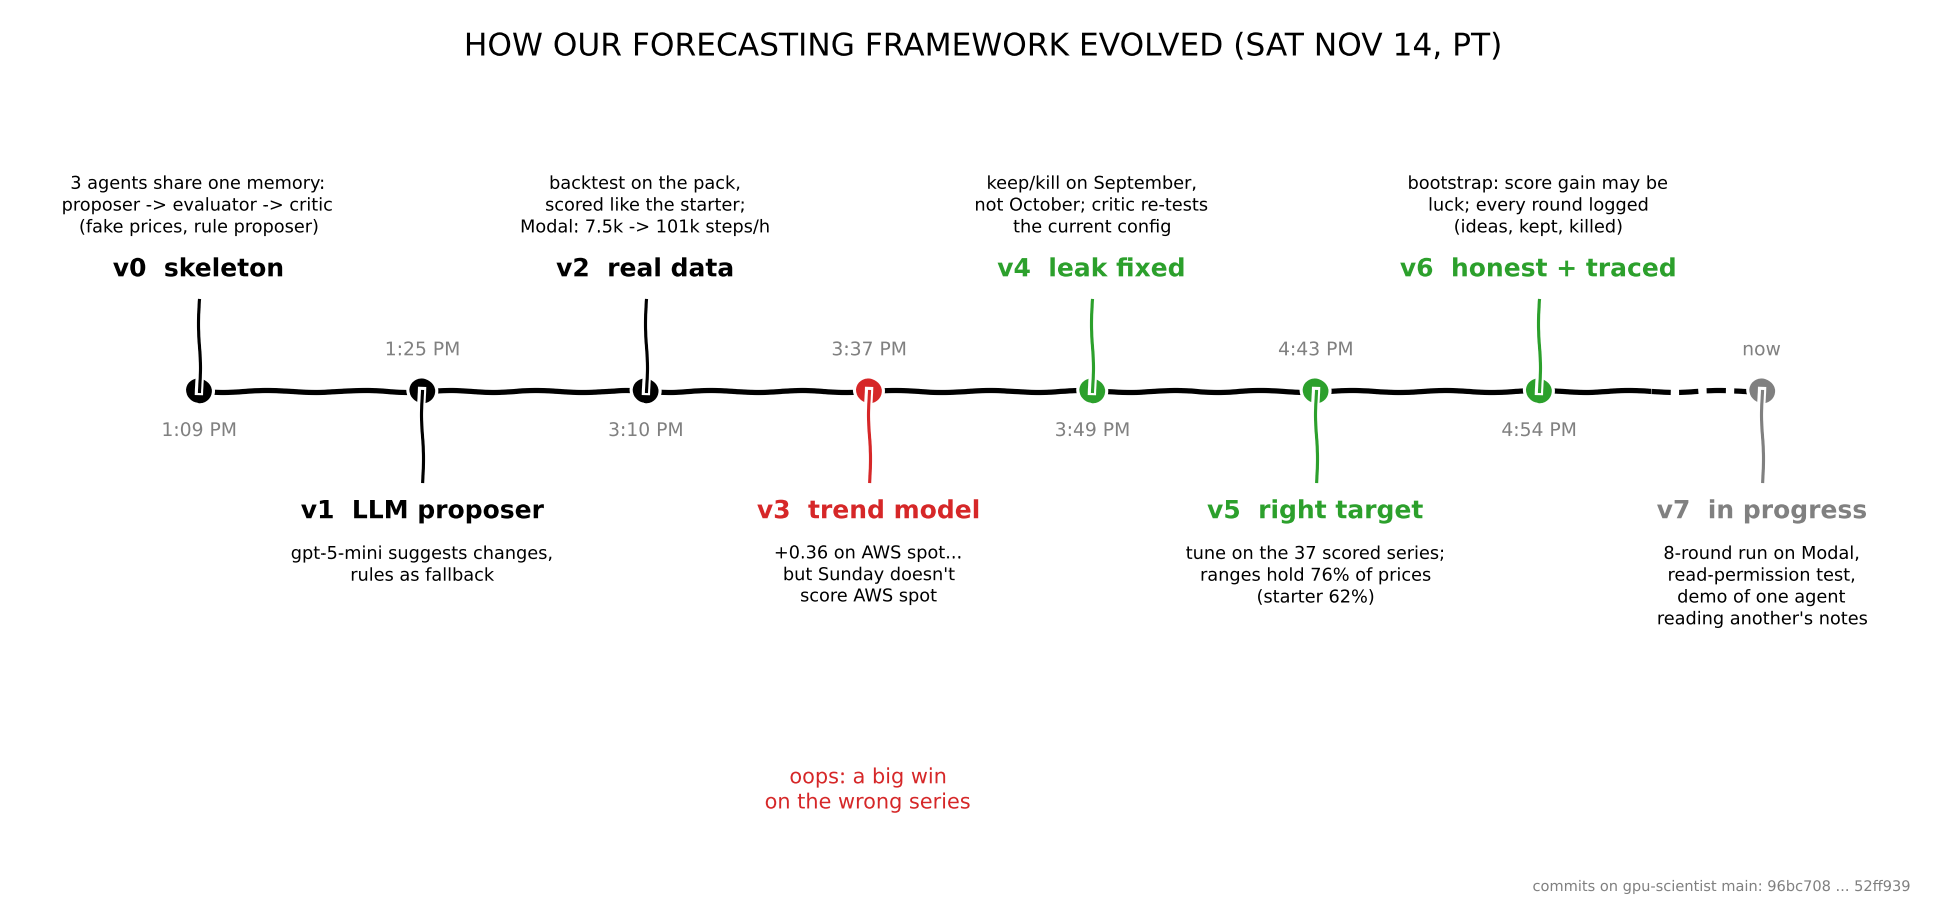
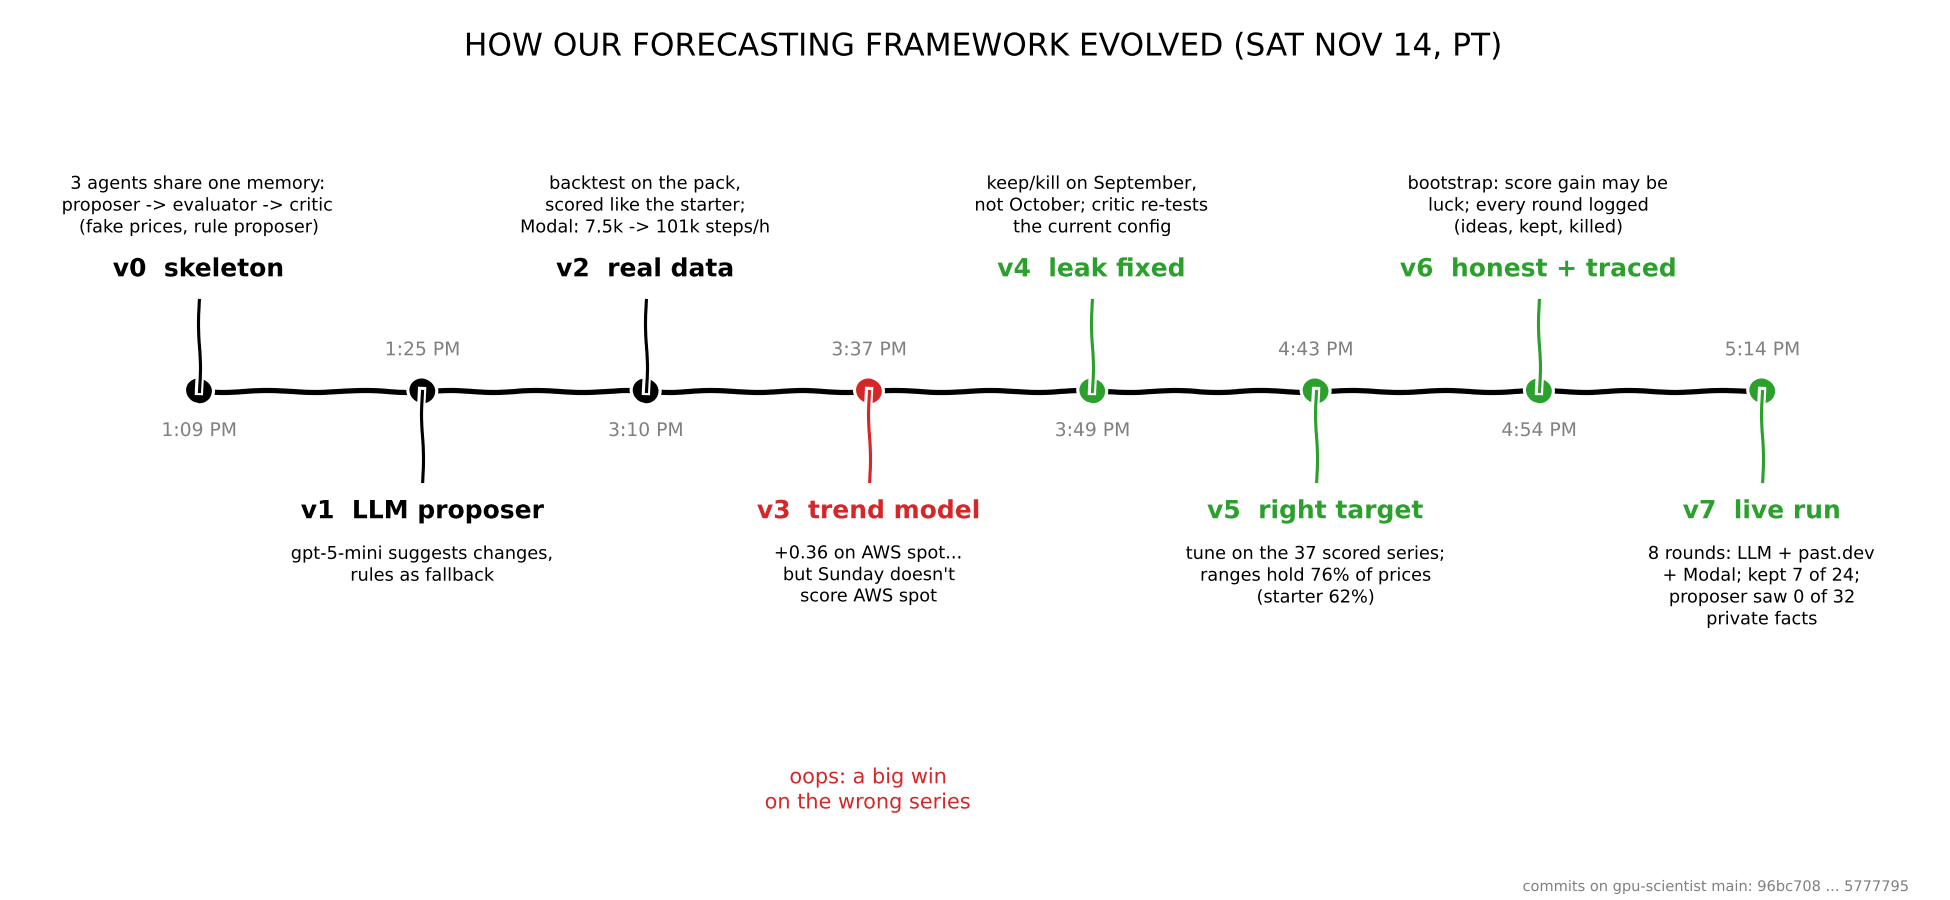
Docs: last live run (scored37-e) in FINDINGS, demo, slides, timeline
7 of 24 ideas kept over 8 rounds, gains in rounds 1 and 3; the run's
final settings score +0.149 on October vs +0.122, coverage 0.71, and the
submission stays the config picked before the run. Timeline v7 is done.

Changed region(s): [[0.8308, 0.56, 0.9538, 0.7156], [0.8, 0.9644, 0.9846, 0.9956], [0.8923, 0.3733, 0.9231, 0.4667]]

diff --git a/docs/slides/index.html b/docs/slides/index.html
@@ -69,7 +69,7 @@ th { font-weight:600; color:var(--mute); }
   <h2>What the loop tried and kept</h2>
   <img class="fig" id="rounds" src="../../loop/results/loop_rounds.png" alt="Round-by-round chart"
        onerror="this.outerHTML='<div class=&quot;box&quot;>Round chart lands at loop/results/loop_rounds.png</div>'">
-  <p class="small" style="margin-top:2vh">Sweep of 38 settings, July to September: borrowing repricing behavior from all 725 series raised September skill from +0.127 to +0.162. Doubling the band cut it to +0.041.</p>
+  <p class="small" style="margin-top:2vh">Last live run: 8 rounds, 7 of 24 ideas kept, gains in rounds 1 and 3. Its final settings score +0.149 on October vs +0.122 for the start (coverage 0.71). The submission stays the one picked before this run.</p>
 </section>
 
 <section class="slide">
@@ -109,6 +109,7 @@ th { font-weight:600; color:var(--mute); }
   <h2>One agent reads another agent's memory</h2>
   <div class="box">[live terminal]&nbsp; <code>cd loop &amp;&amp; ./demo_read.sh</code></div>
   <p style="margin-top:3vh">The evaluator writes a verdict. The proposer reads it back, with everything dated up to September 30. The raw server response to the proposer holds no October numbers. The critic sees them.</p>
+  <p class="small mute">Last run: 110 facts, 32 critic-only. The proposer got 0 of the 32.</p>
 </section>
 
 <section class="slide">

diff --git a/docs/evolution.py b/docs/evolution.py
@@ -16,15 +16,14 @@ steps = [
  ("3:49 PM", "v4  leak fixed", "keep/kill on September,\nnot October; critic re-tests\nthe current config"),
  ("4:43 PM", "v5  right target", "tune on the 37 scored series;\nranges hold 76% of prices\n(starter 62%)"),
  ("4:54 PM", "v6  honest + traced", "bootstrap: score gain may be\nluck; every round logged\n(ideas, kept, killed)"),
- ("now", "v7  in progress", "8-round run on Modal,\nread-permission test,\ndemo of one agent\nreading another's notes"),
+ ("5:14 PM", "v7  live run", "8 rounds: LLM + past.dev\n+ Modal; kept 7 of 24;\nproposer saw 0 of 32\nprivate facts"),
 ]
 xs = range(len(steps))
-ax.plot([0, len(steps)-1.5], [0, 0], color="k", lw=2.5)
-ax.plot([len(steps)-1.5, len(steps)-1], [0, 0], color="k", lw=2.5, ls="--")
+ax.plot([0, len(steps)-1], [0, 0], color="k", lw=2.5)
 for i, (t, name, what) in enumerate(steps):
     up = i % 2 == 0
     y = 1 if up else -1
-    col = "tab:red" if i in (3,) else ("tab:green" if i in (4, 5, 6) else ("grey" if i == 7 else "k"))
+    col = "tab:red" if i in (3,) else ("tab:green" if i in (4, 5, 6, 7) else "k")
     ax.plot([i], [0], "o", ms=11, color=col)
     ax.plot([i, i], [0, y*0.35], color=col, lw=1.5)
     ax.text(i, y*0.42, name, ha="center", va="bottom" if up else "top", fontsize=12, color=col, weight="bold")
@@ -34,5 +33,5 @@ ax.text(3, -1.45, "oops: a big win\non the wrong series", ha="center", va="top",
 ax.set_xlim(-0.7, len(steps)-0.3); ax.set_ylim(-1.85, 1.25)
 ax.axis("off")
 ax.set_title("HOW OUR FORECASTING FRAMEWORK EVOLVED (SAT NOV 14, PT)", fontsize=15)
-fig.text(0.99, 0.01, "commits on gpu-scientist main: 96bc708 ... 52ff939", ha="right", fontsize=7, color="grey")
+fig.text(0.99, 0.01, "commits on gpu-scientist main: 96bc708 ... 5777795", ha="right", fontsize=7, color="grey")
 fig.tight_layout(); fig.savefig(sys.argv[1] if len(sys.argv) > 1 else "docs/evolution.png", dpi=150)

diff --git a/docs/FINDINGS.md b/docs/FINDINGS.md
@@ -55,9 +55,19 @@ We built the system in one afternoon, in eight versions (docs/evolution.png, reb
 
 ## What the loop learned across rounds
 
-TODO (gpuloop): the round-by-round log and chart, from loop/results/loop_rounds.json and loop_rounds.png. For each round: what was proposed, kept, killed and refuted, and the September skill after it.
+![Agent loop rounds](../loop/results/loop_rounds.png)
 
-The sweep that picked the final settings tried 38 configurations on July to September (loop/results/sweep_julsep_37.txt). Two lessons from it:
+The last live run (scope scored37-e, 01:14 to 02:12 UTC on 15 November) used the LLM proposer, the live past.dev memory and Modal backtests. It ran 8 rounds of 3 ideas each and kept 7 of the 24 ideas. Rounds 2 and 4 kept nothing. The critic corroborated all 7 kept ideas, so in this run it never reversed a decision.
+
+Almost all the gain came in two rounds. Round 1 kept a 14-day half-life, which raised September skill from +0.127 to +0.146. Round 3 kept borrowing repricing behavior from other series at weight 0.7, which raised July to September skill from +0.095 to +0.157 and September skill to +0.185. The four ideas kept after round 3 moved September skill by less than 0.001. All 5 band-width ideas, all 3 window ideas and all 4 momentum-weight ideas were killed.
+
+The run's final settings score +0.149 on October against the start's +0.122, with coverage 0.71. We did not switch the submission to them. The submission was picked on July to September before this run, and switching after seeing October would mean choosing on October. We have not bootstrapped this October gap.
+
+In this run the agents wrote 110 facts to past.dev, 32 of them critic-only. The proposer's reads returned none of the 32.
+
+Sources: loop/results/loop_rounds.json, loop/results/dashboard.html.
+
+The sweep that picked the submitted settings tried 38 configurations on July to September (loop/results/sweep_julsep_37.txt). Two lessons from it:
 
 - Borrowing repricing behavior from other series helped most. Half weight raised September skill from +0.127 to +0.162 on its own.
 - Wider bands cost skill quickly. Scaling the band by 2 cut September skill to +0.041.
@@ -75,7 +85,7 @@ Sources: loop/results/backtest.json, key "aws_trend"; loop/results/october_37_th
 - Most of the September edge did not survive to October. The final configuration led the start by 0.045 in September and by 0.012 in October, a gap within noise. Choosing among 38 configurations on September made September look better than it was.
 - Momentum hurts on posted prices. Adding it at 0.5 cut September skill from +0.127 to +0.034.
 - A drift term added nothing (+0.125 against +0.127 in September).
-- TODO (gpuloop): any LLM-proposer rounds that kept nothing.
+- In the last live run, rounds 2 and 4 kept nothing, and the four ideas kept after round 3 changed September skill by less than 0.001.
 
 ## Rent and resale in 2028 and 2029
 
@@ -87,4 +97,4 @@ We expect an H100 to rent for about $3/hr and sell for about $4,700 in November 
 - Most posted series have short histories: the pack's rental panels start in January 2026 or later, and many start in August.
 - The resale view rests on two used-price prints and a handful of rate cards that span all of 2026.
 - The memory boundary relies on each agent naming itself honestly (see Method).
-- TODO (gpuloop): whether the final 8-round run used the live past.dev API end to end.
+- Recall from past.dev is a ranked search. In round 8 of the last run it missed 1 of 21 earlier ideas; the proposer's list of idea ids stopped a repeat.

diff --git a/docs/demo.md b/docs/demo.md
@@ -30,11 +30,11 @@ We built this in one afternoon, in eight versions. Two mistakes taught us the mo
 
 ## 1:30 What the loop tried and kept
 
-[TODO: round chart from gpuloop, loop/results/loop_rounds.png]
+[loop/results/loop_rounds.png]
 
-TODO: one sentence per round, from loop_rounds.json: what was tried, what was kept, what was killed.
+This is the last live run: eight rounds, three ideas each. The loop kept 7 of 24. Almost all the gain came from two of them: weighting recent repricing more, and borrowing repricing behavior from other series. Momentum weights, band changes and window changes were killed every time.
 
-In a sweep of 38 settings on July to September, one idea mattered most: borrowing repricing behavior from all 725 series in the pack. Doubling the band width cut September skill by two thirds.
+The run's final settings score +0.149 on October, against +0.122 for the start. We kept the submission we picked before this run, because switching now would mean choosing on October.
 
 ## 2:00 Results, honestly
 
@@ -56,7 +56,7 @@ Remember the six-year-old A100. Rent holds up, so we forecast rent first. Our vi
 
 [Terminal: `cd loop && ./demo_read.sh`. Needs PAST_API_KEY. `./demo_read.sh <scope>` replays a finished run instead.]
 
-Here the evaluator writes a verdict into the notebook. The proposer reads it back, with the earlier verdicts and the critic's refutations, all dated September 30 or earlier. The last lines are the raw server response to the proposer. It holds no October numbers. The critic reads the same notebook and does see them.
+Here the evaluator writes a verdict into the notebook. The proposer reads it back, with the earlier verdicts and the critic's refutations, all dated September 30 or earlier. The last lines are the raw server response to the proposer. It holds no October numbers. The critic reads the same notebook and does see them. In the last full run the agents wrote 110 facts, 32 of them critic-only, and the proposer got none of the 32.
 
 ## 3:30 Caveats
 
